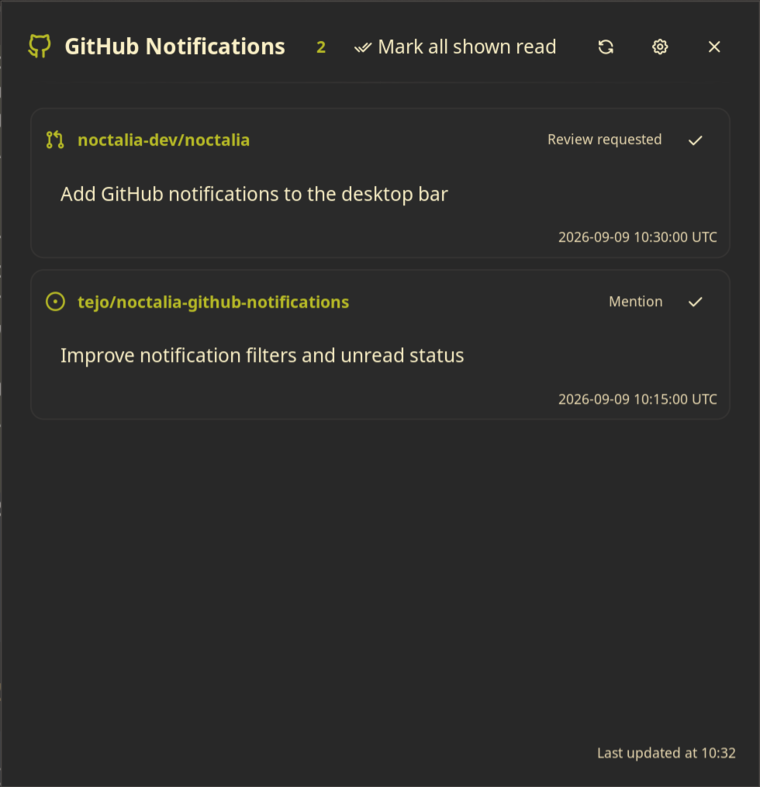
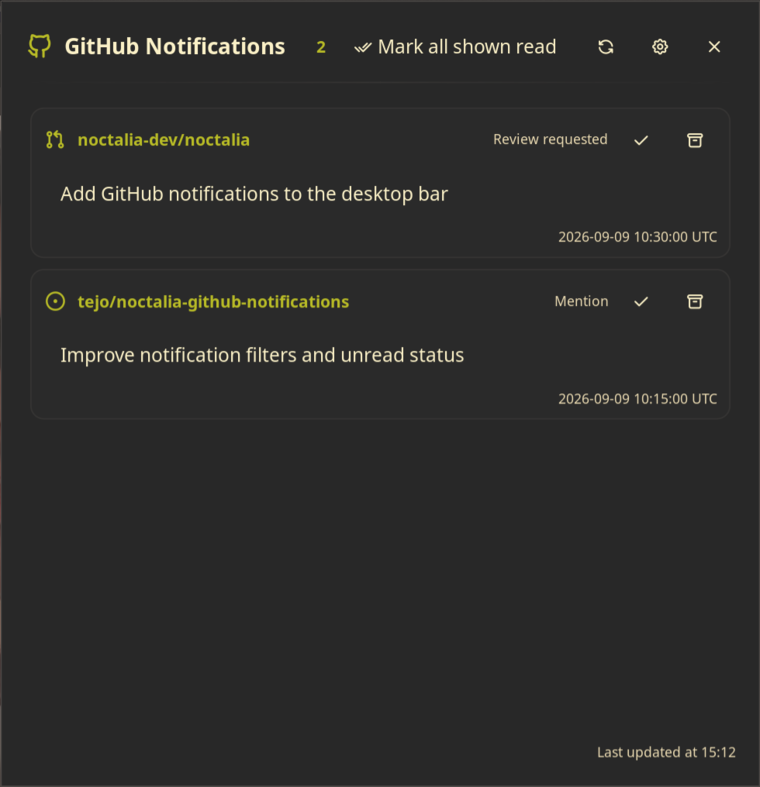
Release 1.2.0

diff --git a/github-notifications/README.md b/github-notifications/README.md
@@ -1,6 +1,6 @@
 # GitHub Notifications
 
-Show selected unread GitHub notifications in the Noctalia bar, open their issues or pull requests, and mark them as read without opening GitHub's notification inbox.
+Show selected unread GitHub notifications in the Noctalia bar, open their issues or pull requests, and mark them as read or Done without opening GitHub's notification inbox.
 
 ![GitHub Notifications panel](thumbnail.webp)
 
@@ -25,7 +25,7 @@ The plugin uses GitHub CLI authentication and does not read or store a token.
 2. Add the `indicator` widget from **Settings -> Bar -> Widgets**.
 3. Left-click the widget to open the notification panel.
 4. Click a title to open the notification in your browser.
-5. Click a check mark to mark one notification as read, or use **Mark all shown read**.
+5. Click a check mark to mark one notification as read, click the archive button to mark it as Done, or use **Mark all shown read**.
 
 Right-click the bar widget or click the panel's cog button to open plugin settings. The refresh button checks GitHub immediately.
 
@@ -67,4 +67,5 @@ noctalia msg plugin tejo/github-notifications:sync all mark-all
 - The plugin requests unread notifications through `gh api` every five minutes by default.
 - Notification links are opened through `xdg-open`.
 - Marking a notification as read calls GitHub's notification thread API.
+- Marking a notification as Done removes it from the GitHub inbox using the thread API.
 - Screenshot notification entries are public demonstration data, not real inbox content.

diff --git a/README.md b/README.md
@@ -9,7 +9,7 @@ A native Noctalia v5 plugin that puts GitHub notifications in the desktop bar.
 - Unread count and status-aware GitHub icon in the bar
 - Filterable GitHub notification reasons
 - Notification panel with links to issues and pull requests
-- Mark individual notifications or all displayed notifications as read
+- Mark individual notifications as read or Done, or mark all displayed notifications as read
 - Configurable background refresh interval
 - Uses existing GitHub CLI authentication; the plugin does not store a token
 
@@ -44,6 +44,7 @@ Then add the **GitHub Notifications** `indicator` widget from Noctalia's bar set
 - Right-click the bar widget, or click the cog in its panel, to open settings.
 - Click a notification title to open it in your browser.
 - Click a check mark to mark one notification as read.
+- Click the archive button to mark one notification as Done and remove it from GitHub's inbox.
 - Click **Mark all shown read** to mark all currently displayed notifications as read.
 - Click the refresh button to check immediately.
 
